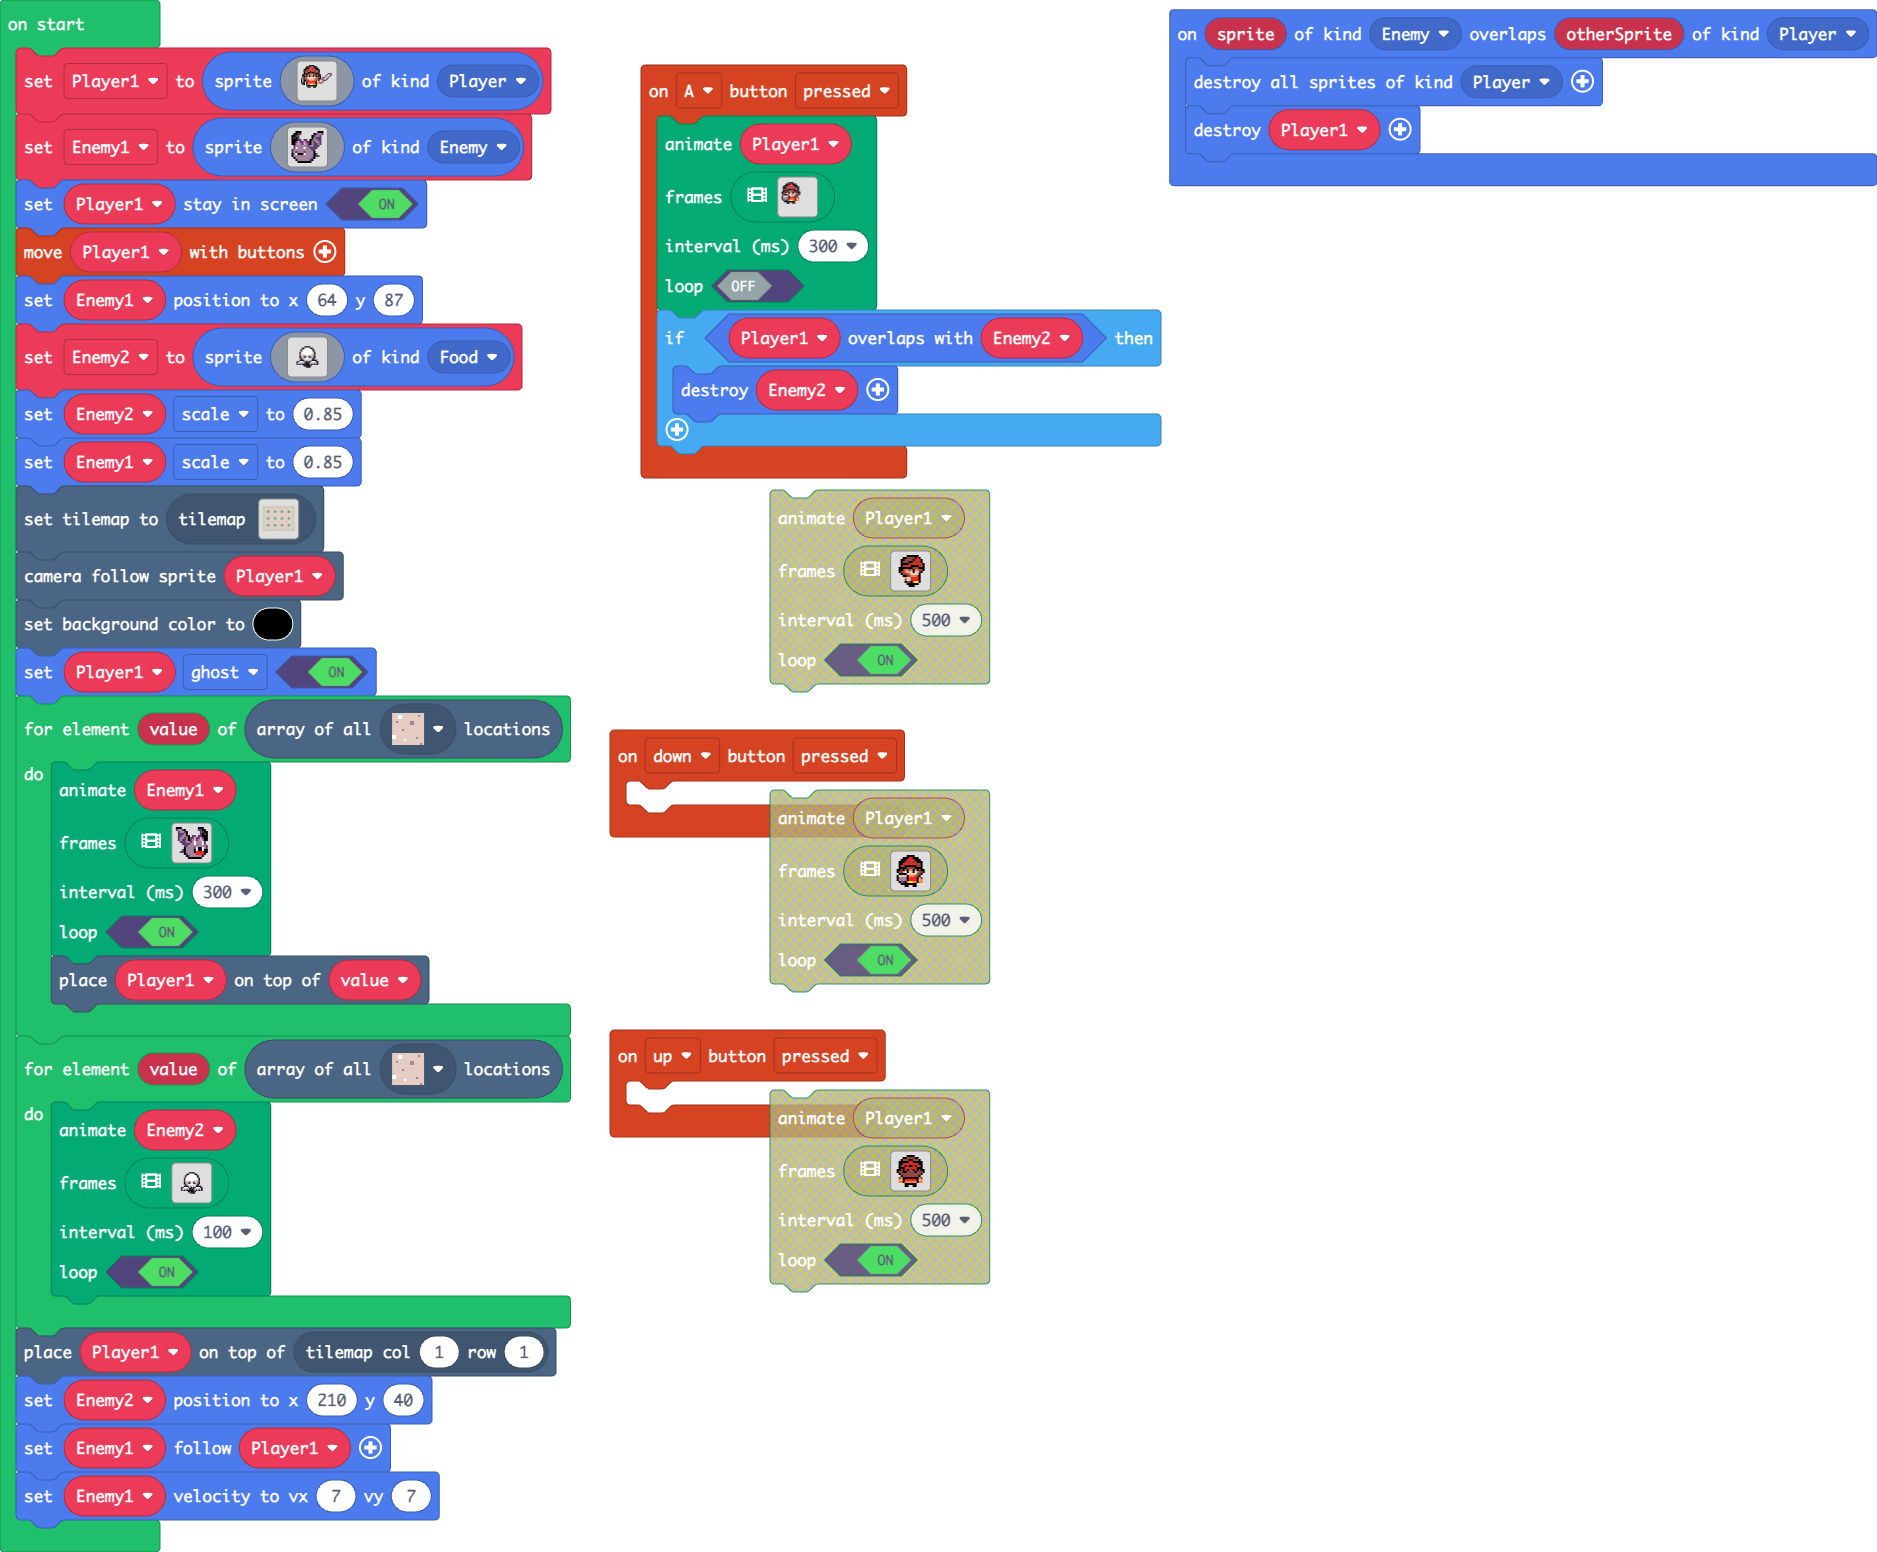
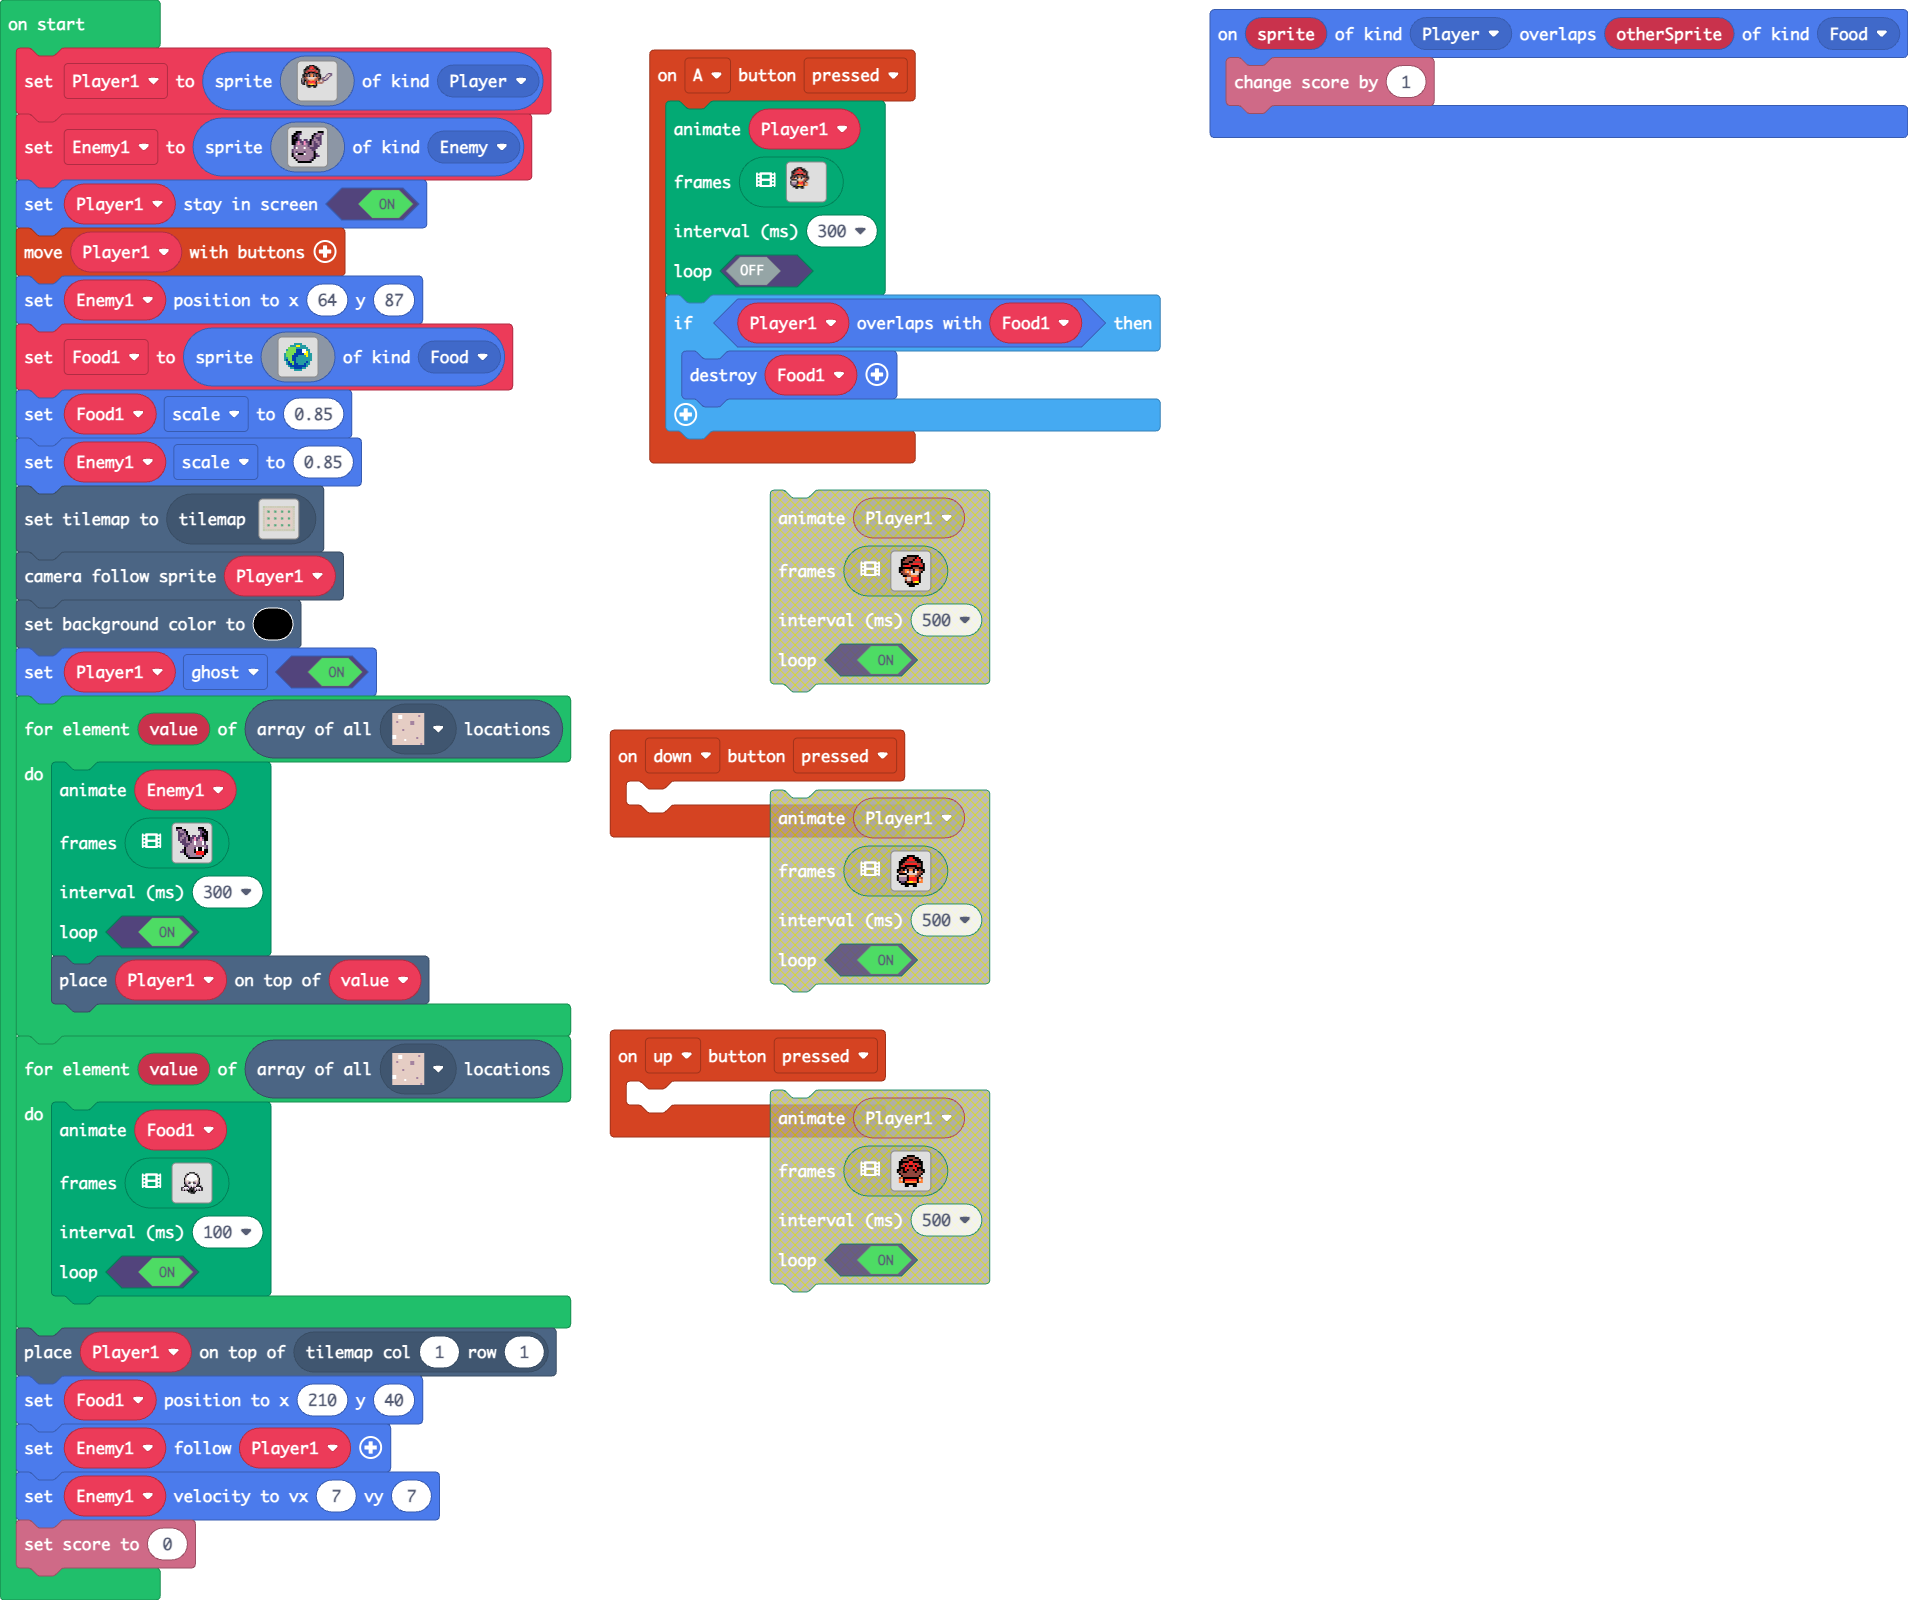
Update main.blocks, main.ts

Changed region(s): [[0.0, 0.0, 0.618, 0.9897], [0.618, 0.0, 1.0, 0.1237]]

diff --git a/main.ts b/main.ts
@@ -108,18 +108,17 @@ controller.A.onEvent(ControllerButtonEvent.Pressed, function () {
     300,
     false
     )
-    if (Player1.overlapsWith(Enemy2)) {
-        sprites.destroy(Enemy2)
+    if (Player1.overlapsWith(Food1)) {
+        sprites.destroy(Food1)
     }
-})
-sprites.onOverlap(SpriteKind.Enemy, SpriteKind.Player, function (sprite, otherSprite) {
-    sprites.destroyAllSpritesOfKind(SpriteKind.Player)
-    sprites.destroy(Player1)
 })
 controller.down.onEvent(ControllerButtonEvent.Pressed, function () {
 	
 })
-let Enemy2: Sprite = null
+sprites.onOverlap(SpriteKind.Player, SpriteKind.Food, function (sprite, otherSprite) {
+    info.changeScoreBy(1)
+})
+let Food1: Sprite = null
 let Player1: Sprite = null
 Player1 = sprites.create(img`
     ......ffff..............
@@ -168,33 +167,25 @@ let Enemy1 = sprites.create(img`
 Player1.setStayInScreen(true)
 controller.moveSprite(Player1)
 Enemy1.setPosition(64, 87)
-Enemy2 = sprites.create(img`
-    ........................
-    ........................
-    ........................
-    ........................
-    ..........ffff..........
-    ........ff1111ff........
-    .......fb111111bf.......
-    .......f11111111f.......
-    ......fd11111111df......
-    ......fd11111111df......
-    ......fddd1111dddf......
-    ......fbdbfddfbdbf......
-    ......fcdcf11fcdcf......
-    .......fb111111bf.......
-    ......fffcdb1bdffff.....
-    ....fc111cbfbfc111cf....
-    ....f1b1b1ffff1b1b1f....
-    ....fbfbffffffbfbfbf....
-    .........ffffff.........
-    ...........fff..........
-    ........................
-    ........................
-    ........................
-    ........................
+Food1 = sprites.create(img`
+    . . . . . . . . . . . . . . . . 
+    . . . . . . 6 6 6 6 . . . . . . 
+    . . . . 6 6 6 5 5 6 6 6 . . . . 
+    . . . 7 7 7 7 6 6 6 6 6 6 . . . 
+    . . 6 7 7 7 7 8 8 8 1 1 6 6 . . 
+    . . 7 7 7 7 7 8 8 8 1 1 5 6 . . 
+    . 6 7 7 7 7 8 8 8 8 8 5 5 6 6 . 
+    . 6 7 7 7 8 8 8 6 6 6 6 5 6 6 . 
+    . 6 6 7 7 8 8 6 6 6 6 6 6 6 6 . 
+    . 6 8 7 7 8 8 6 6 6 6 6 6 6 6 . 
+    . . 6 8 7 7 8 6 6 6 6 6 8 6 . . 
+    . . 6 8 8 7 8 8 6 6 6 8 6 6 . . 
+    . . . 6 8 8 8 8 8 8 8 8 6 . . . 
+    . . . . 6 6 8 8 8 8 6 6 . . . . 
+    . . . . . . 6 6 6 6 . . . . . . 
+    . . . . . . . . . . . . . . . . 
     `, SpriteKind.Food)
-Enemy2.scale = 0.85
+Food1.scale = 0.85
 Enemy1.scale = 0.85
 tiles.setCurrentTilemap(tilemap`level2`)
 scene.cameraFollowSprite(Player1)
@@ -279,7 +270,7 @@ for (let value of tiles.getTilesByType(sprites.castle.tilePath5)) {
 }
 for (let value of tiles.getTilesByType(sprites.castle.tilePath5)) {
     animation.runImageAnimation(
-    Enemy2,
+    Food1,
     [img`
         ........................
         ........................
@@ -386,6 +377,7 @@ for (let value of tiles.getTilesByType(sprites.castle.tilePath5)) {
     )
 }
 tiles.placeOnTile(Player1, tiles.getTileLocation(1, 1))
-Enemy2.setPosition(210, 40)
+Food1.setPosition(210, 40)
 Enemy1.follow(Player1)
 Enemy1.setVelocity(7, 7)
+info.setScore(0)
